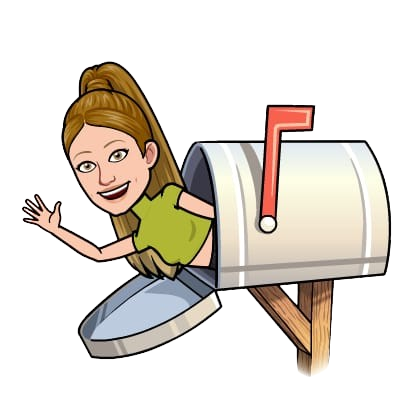
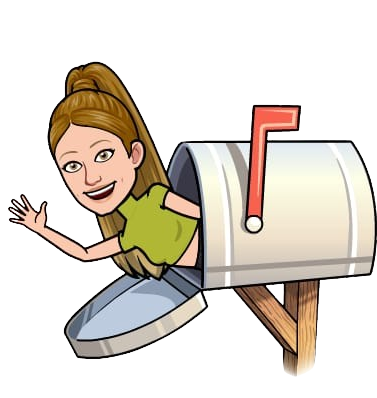
fixing images

diff --git a/front/src/components/Welcome/welcome.css b/front/src/components/Welcome/welcome.css
@@ -1,7 +1,3 @@
-*{
-    margin: 0;
-    padding: 0;
-}
 .welcome-container {
     display: flex;
     align-items: center;
@@ -9,7 +5,6 @@
     padding: 0 20px;
 }
 
-/* Estilos para la imagen */
 .welcome-container img {
     height: 80vh;
 
@@ -20,7 +15,6 @@
     color: rgb(128, 89, 43);
 }
 
-/* Estilos para el contenedor del texto de bienvenida */
 .welcome-text {
     text-align: center; 
     width: 400px;
@@ -124,6 +118,10 @@
   .welcome-container {
   margin-bottom: 100px;
   }
+ .welcome-container img{ 
+  margin-left: auto;
+  
+ }
 
   .welcome-text {
     width: 250px;

diff --git a/front/src/components/Tools/tools.css b/front/src/components/Tools/tools.css
@@ -70,10 +70,9 @@
 }
 
 @media screen and (max-width: 768px) {
- 
-
   .tools {
     grid-template-columns: auto auto;
+    padding: auto;
   }
 }
 

diff --git a/front/src/components/Farewell/farewell.css b/front/src/components/Farewell/farewell.css
@@ -30,4 +30,7 @@
     .farewell-container{
       flex-direction: column;
     }
+    .farewell-container img {
+      width: auto;
+    }
   }
